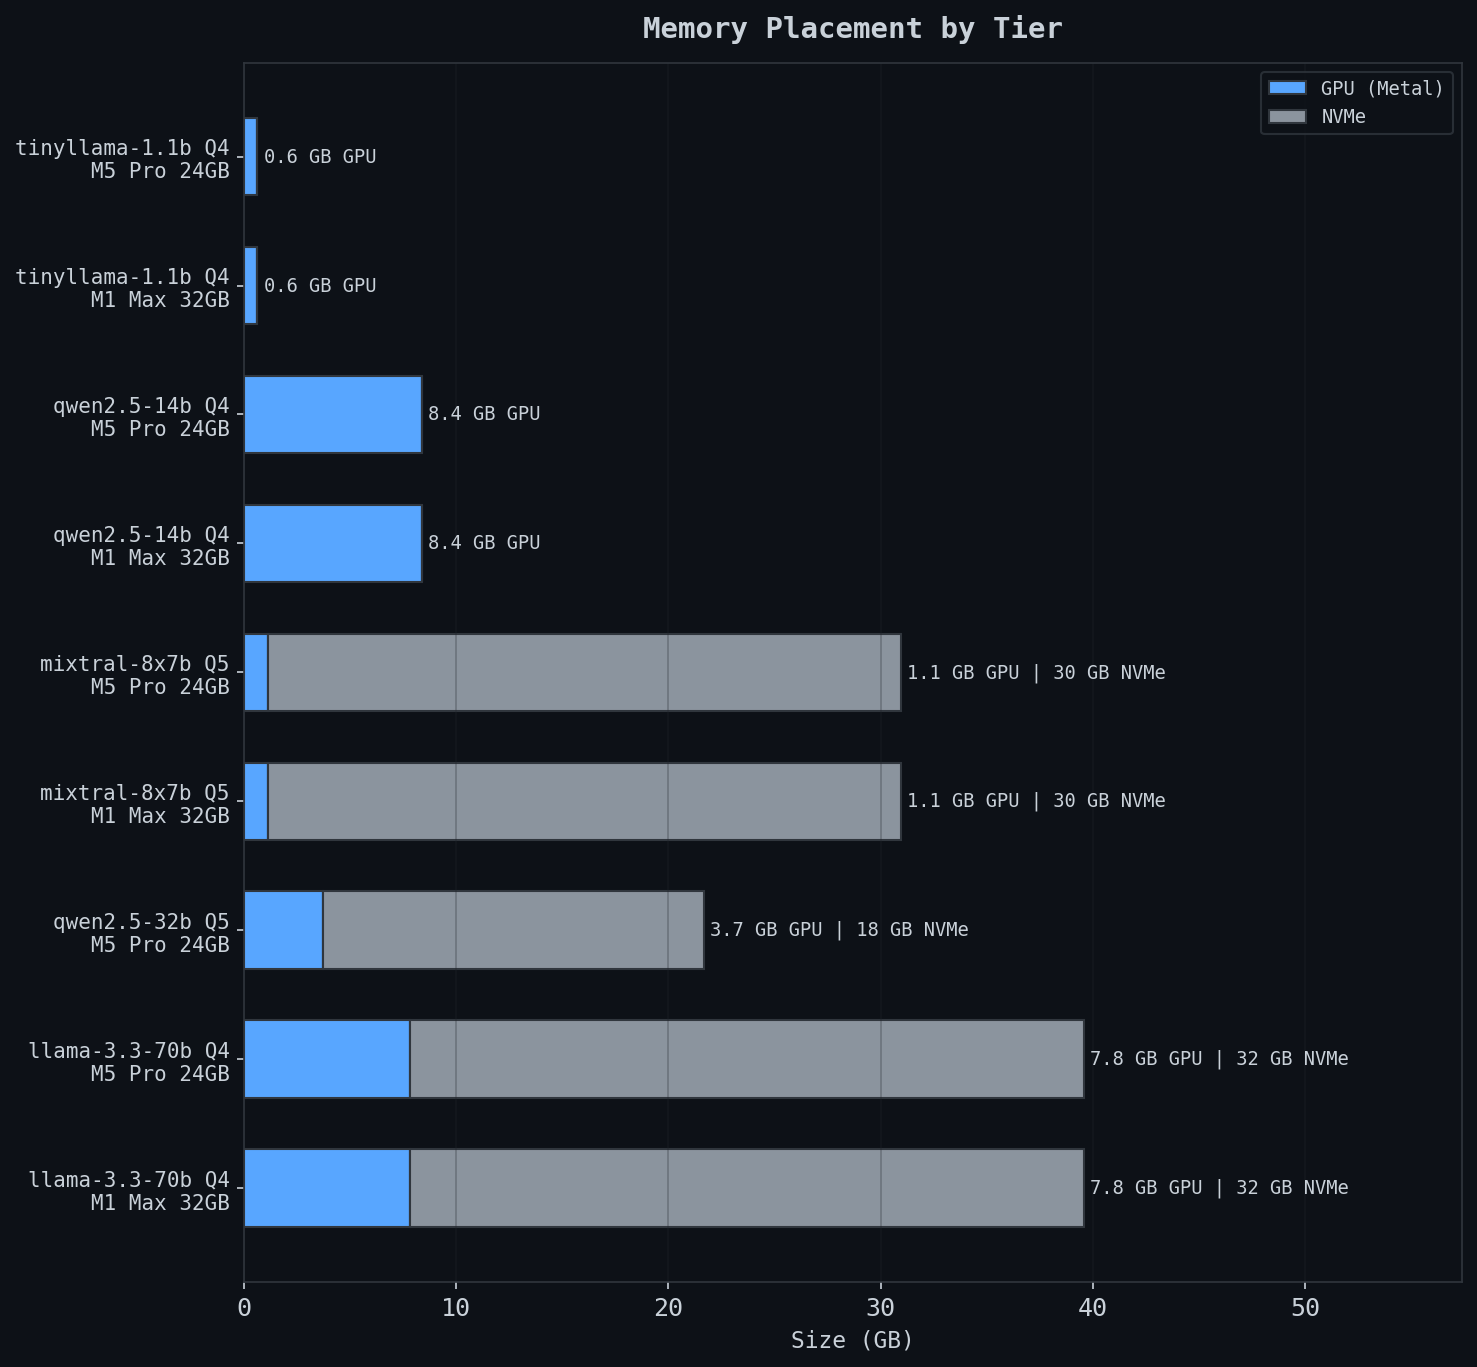
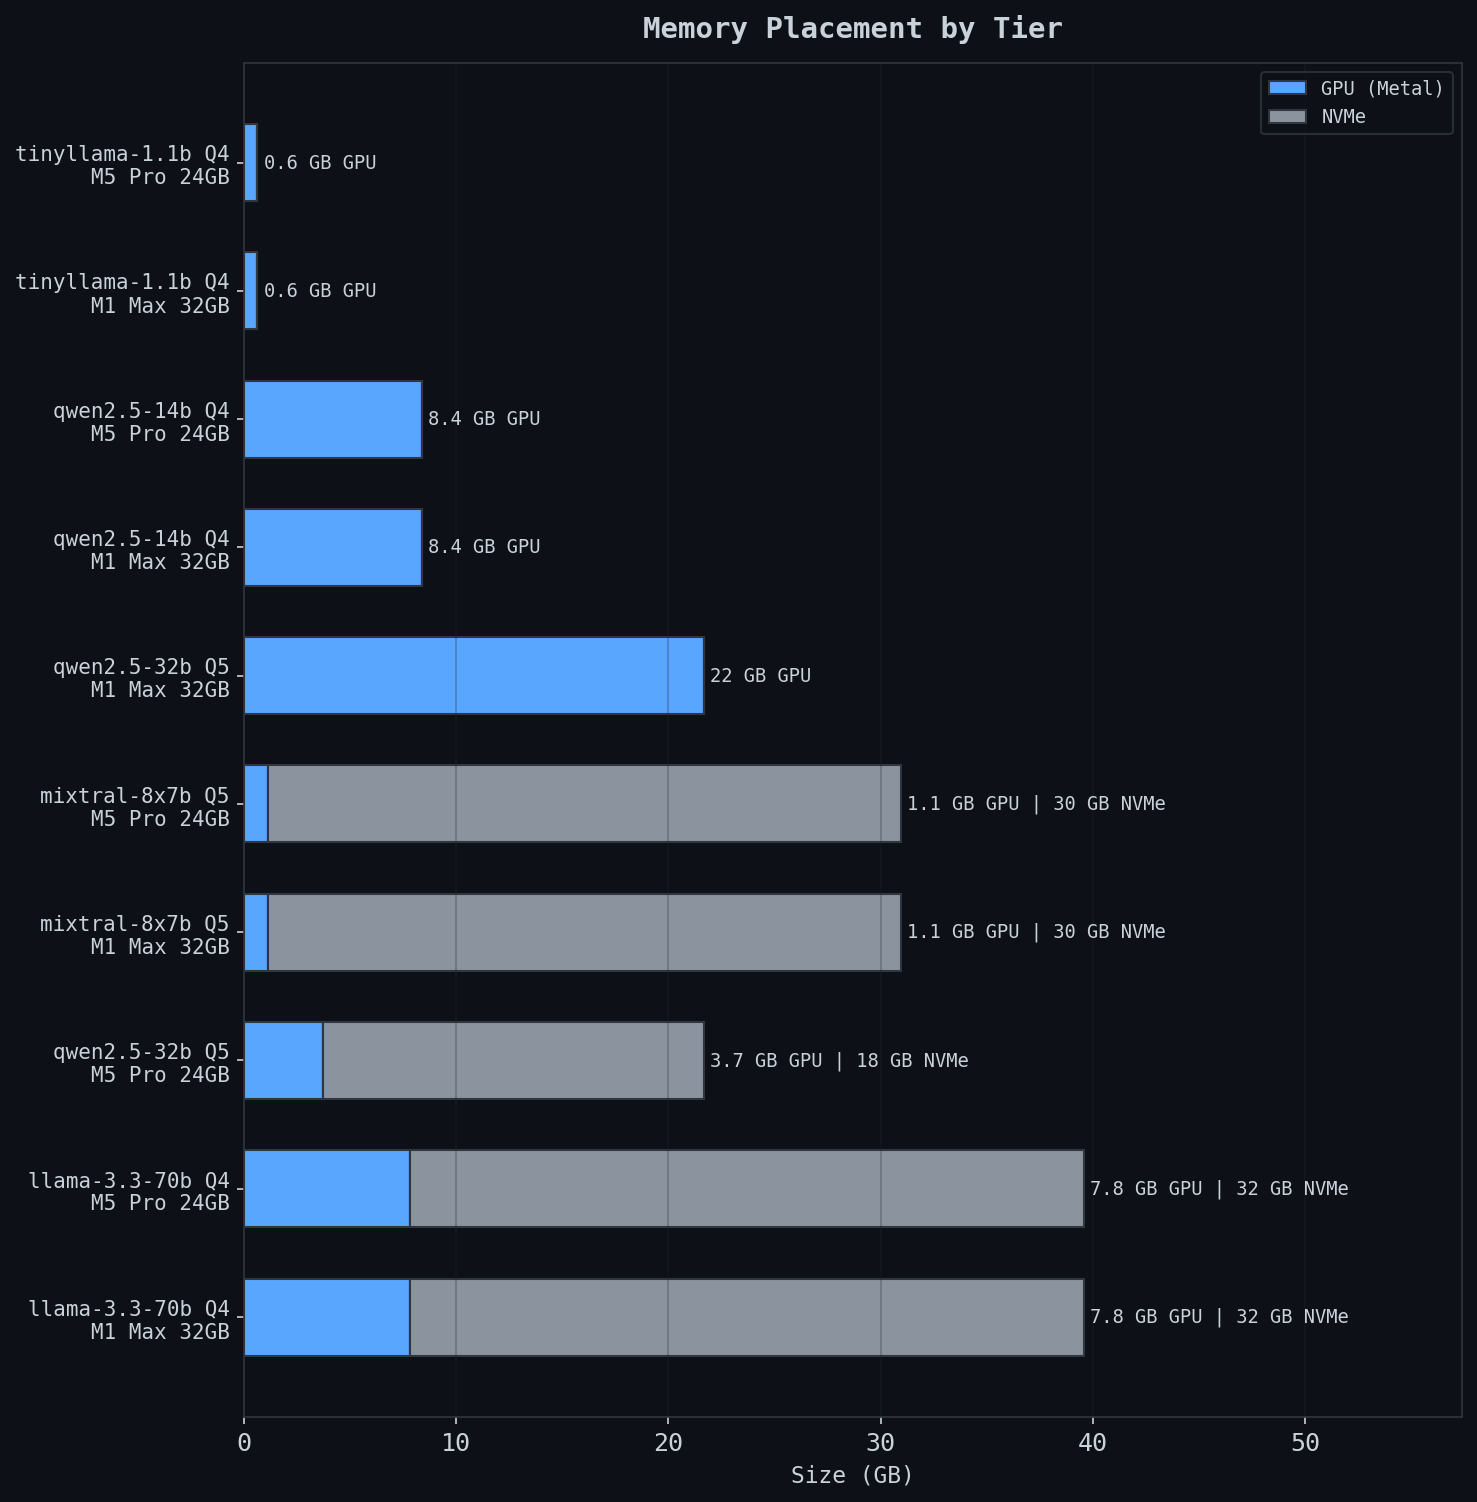
bench: add Qwen 2.5 32B Q5 results, regenerate charts
Qwen 2.5 32B Q5_K_M (21.7 GB) fits entirely in GPU on M1 Max 32GB
at 6.6 tok/s. No NVMe spill needed. Charts now include multi-machine
results (M1 Max 32GB + M5 Pro 24GB).

diff --git a/RESEARCH_INTEGRATION_PLAN.md b/RESEARCH_INTEGRATION_PLAN.md
@@ -798,6 +798,10 @@ The iobench proves the raw I/O path achieves 6.8 GB/s. The 300 MB/s effective th
 - **Change 7** (layer skip) — deferred
 - **Changes 8-10** — SUPERSEDED by expert-streaming
 - **Change 11** (n_batch tuning) — DONE (n_batch=1 cap removed in earlier session, Mixtral prompt eval 4.5s → 1.2s)
+
+**Pending benchmark:** Qwen 2.5 32B Q5_K_M (21.7 GB) on M1 Max 32 GB. Should trigger
+keep-resident or light NVMe spill. Test command:
+`cargo run --release -- bench --max-tokens 30 --context 2048 ./test-models/qwen2.5-32b-instruct-q5_k_m.gguf`
 - **Change 12** (warm cache) — planned
 - **Change 13** (dense FFN-streaming) — DONE: 0.20 tok/s (6.7x over FullStreaming 0.03). Bottleneck is per-layer I/O stalls (~50ms × 80 layers)
 - **Change 14** (pool/cache tuning) — DONE: unified MemoryBudget, dynamic pool slots, scaled prefetch lookahead
